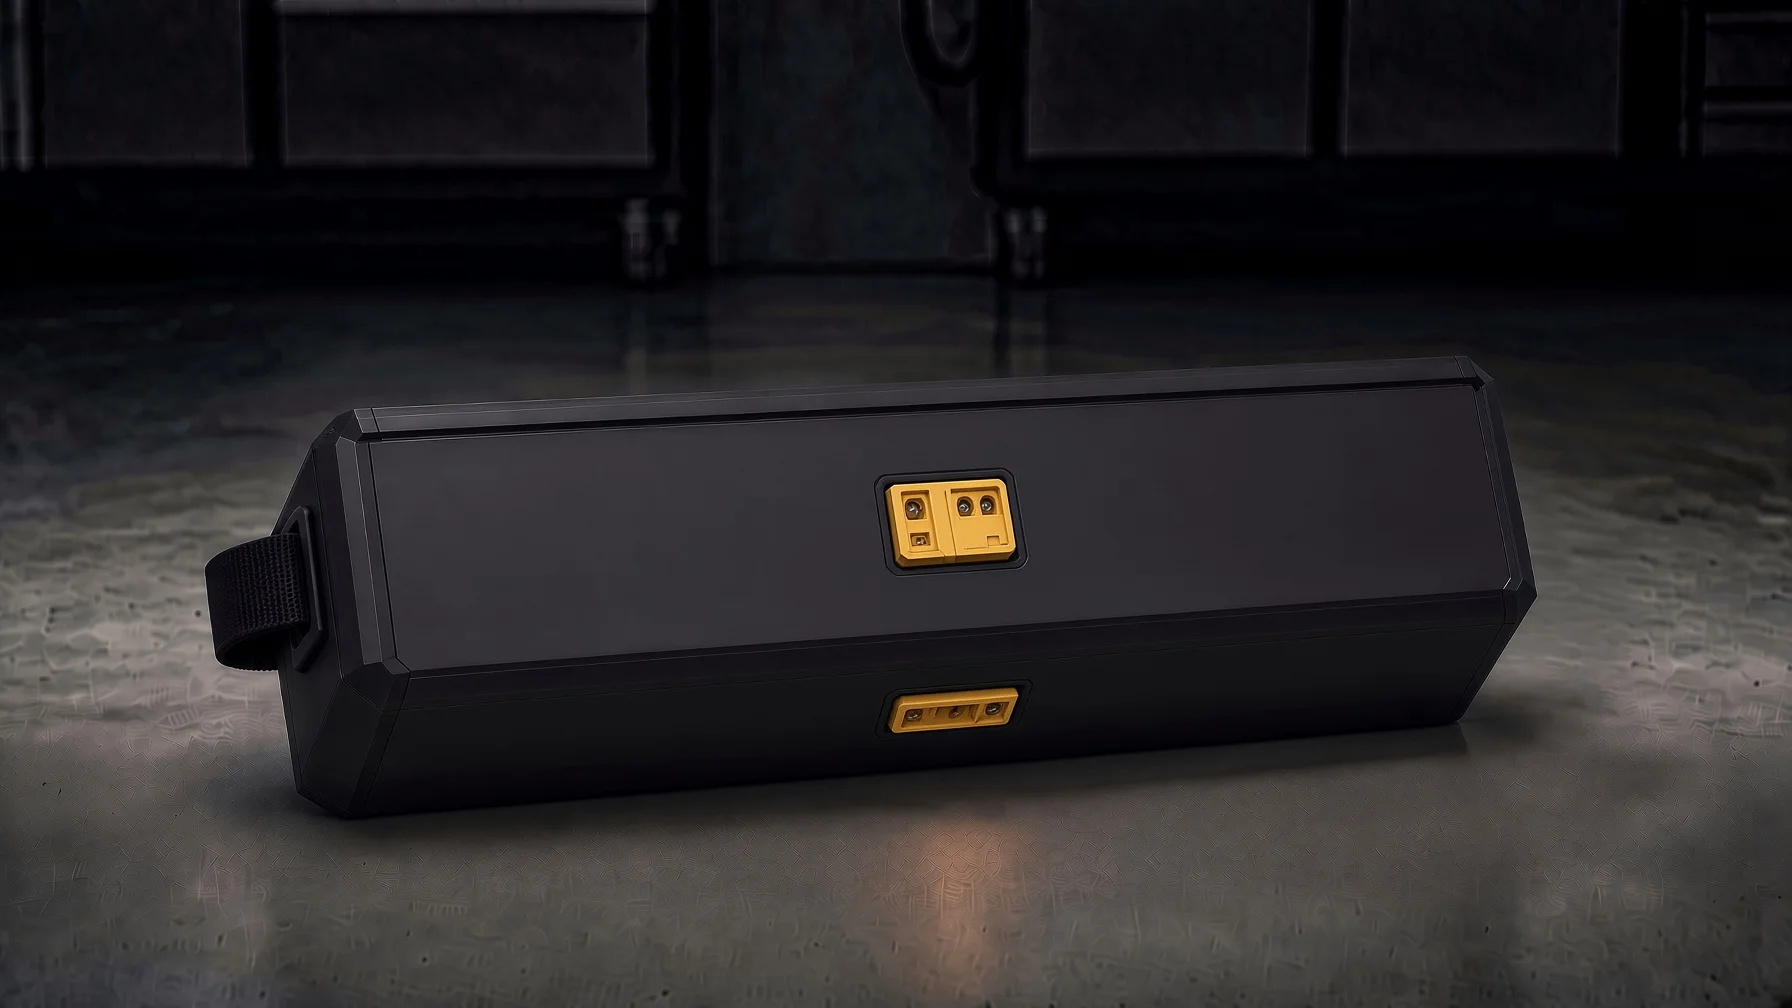
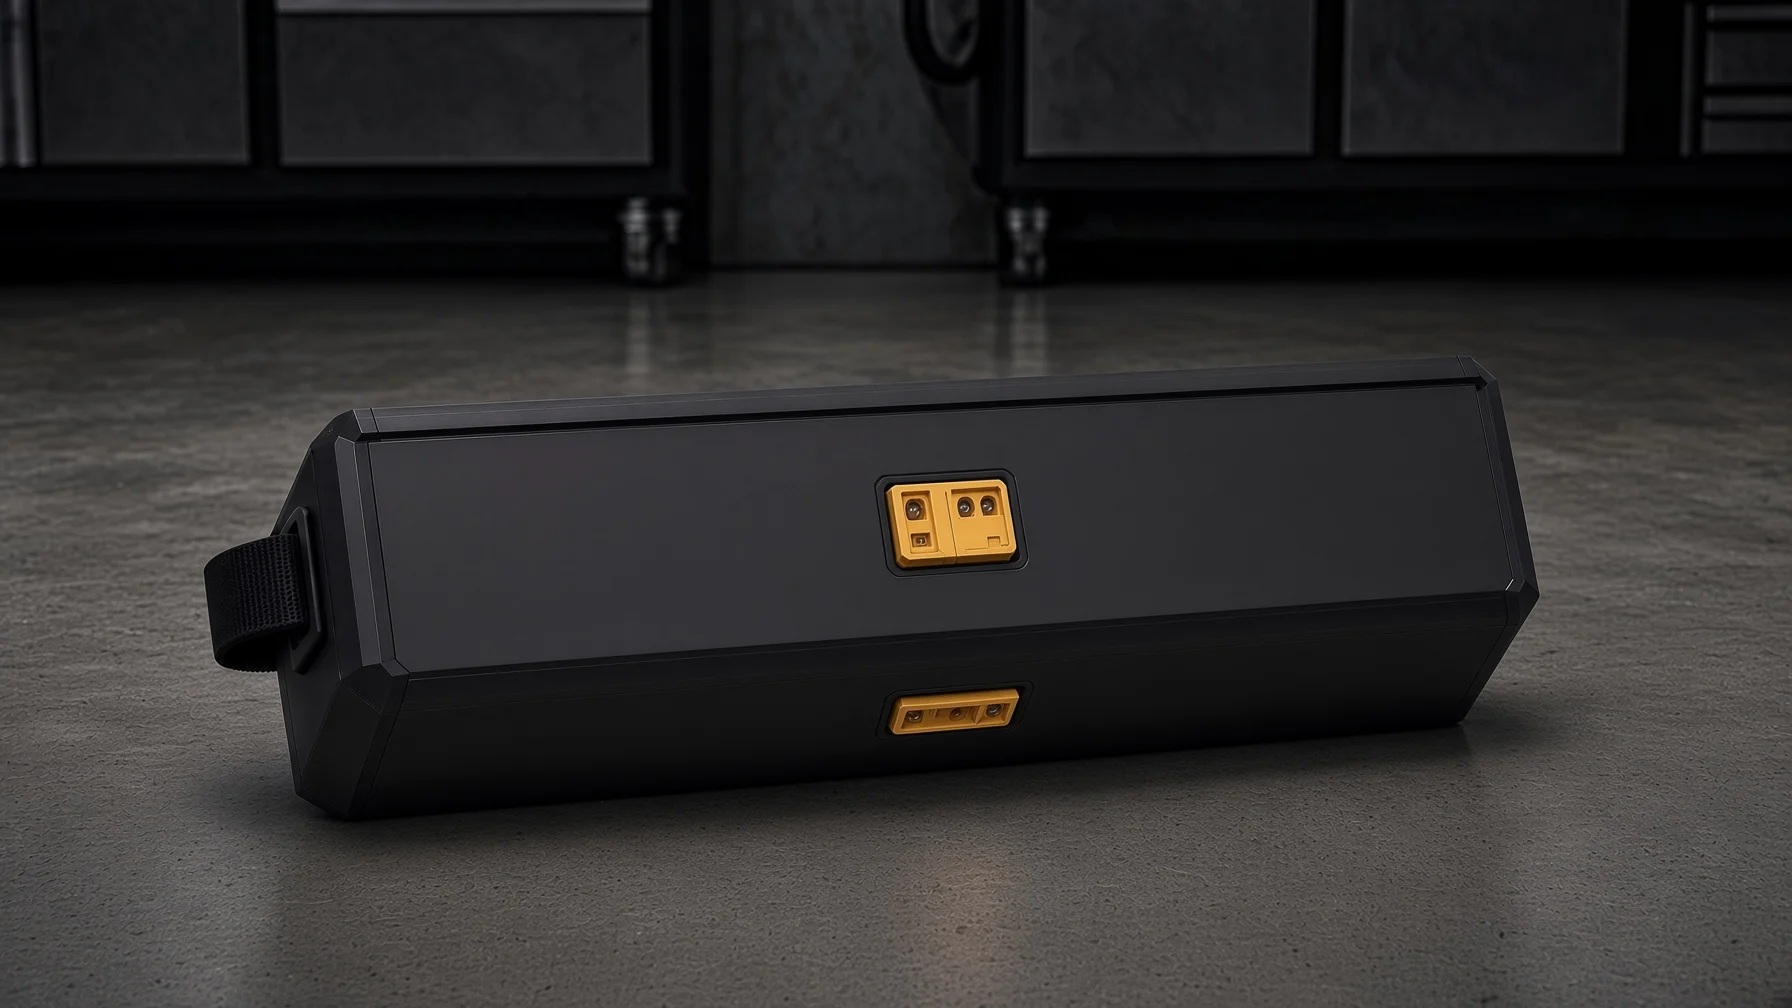
Sharpen the QS8 pack photo workshop background.

diff --git a/index.html b/index.html
@@ -445,7 +445,7 @@
           </figure>
           <figure class="battery-card">
             <img
-              src="assets/nmc-pack-qs8.jpg?v=2"
+              src="assets/nmc-pack-qs8.jpg?v=6"
               alt="59-pound 8.5 kWh semi-solid NMC+ battery pack with yellow QS8 females centered on the bottom and long side, wide haul strap on the end"
             />
             <figcaption class="battery-caption">
